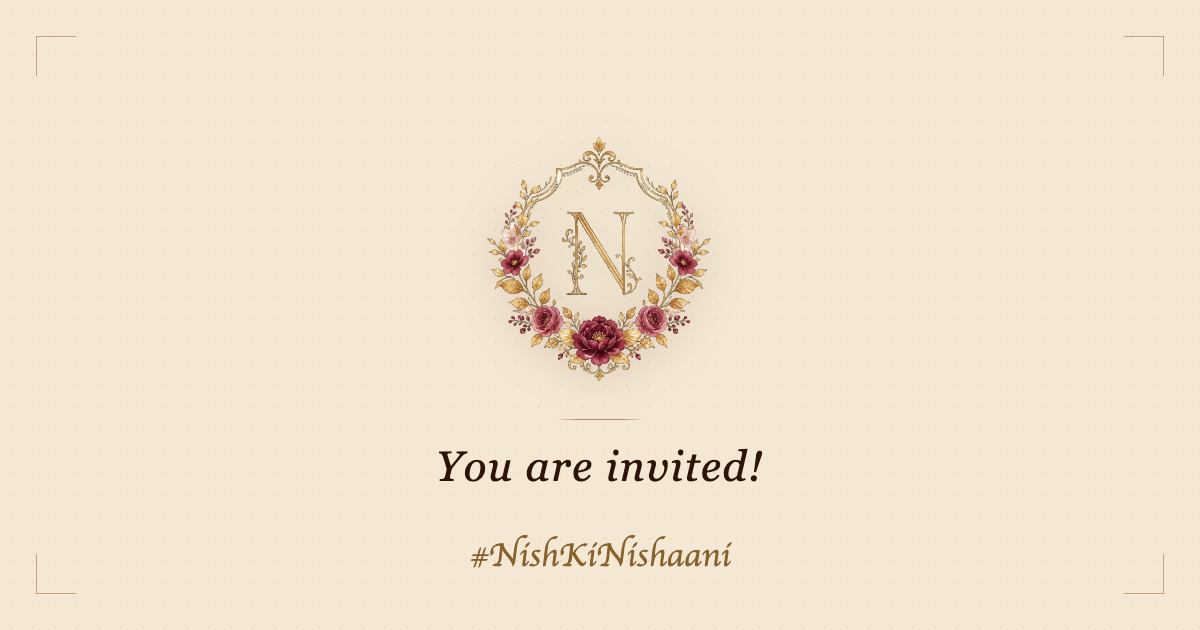
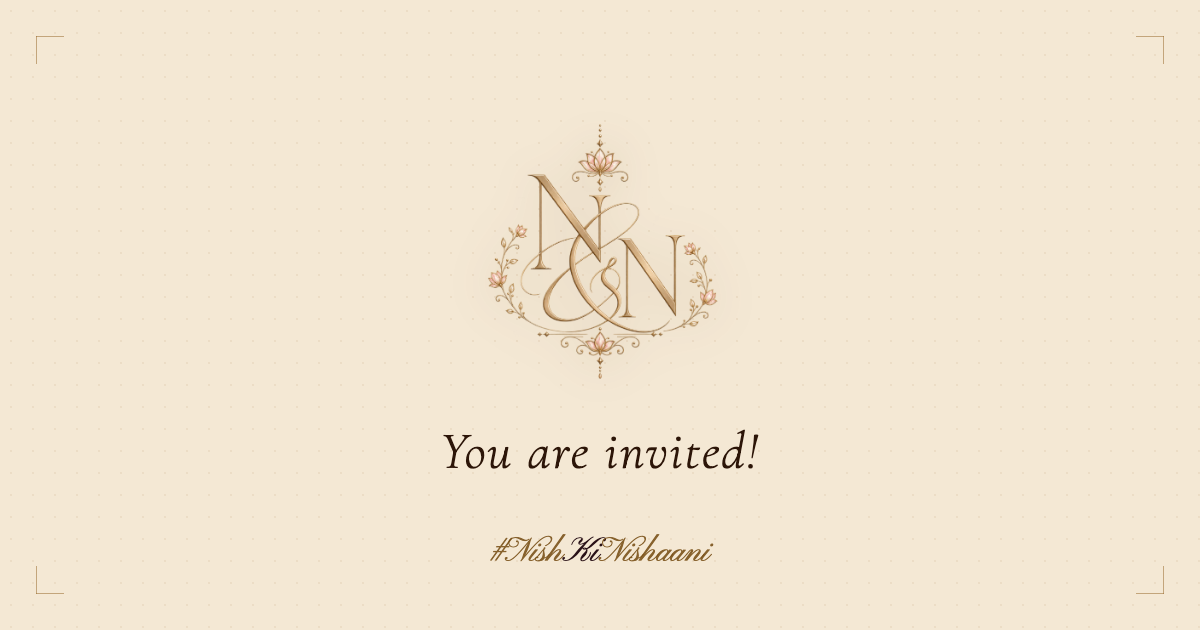
Improvements

Changed region(s): [[0.4008, 0.2111, 0.6167, 0.6032], [0.37, 0.6937, 0.6475, 0.7841], [0.37, 0.8444, 0.6167, 0.9048]]

diff --git a/script.js b/script.js
@@ -210,13 +210,18 @@ document.addEventListener('gestureend', e => e.preventDefault(), { passive: fals
 
       const id = ctx.getImageData(0, 0, W, H);
       const px = id.data;
-      const LOW = 55;
-      const HIGH = 110;
+      const LOW = 42;
+      const HIGH = 88;
 
       for (let i = 0; i < px.length; i += 4) {
-        const lum = px[i] * 0.299 + px[i + 1] * 0.587 + px[i + 2] * 0.114;
-        if (lum <= LOW) px[i + 3] = 0;
-        else if (lum < HIGH) px[i + 3] = Math.round((lum - LOW) / (HIGH - LOW) * 255);
+        const r = px[i], g = px[i + 1], b = px[i + 2];
+        const chroma = Math.max(r, g, b) - Math.min(r, g, b);
+        const lum = r * 0.299 + g * 0.587 + b * 0.114;
+        /* Only strip near-black / grey — keep dark gold & pink */
+        if (lum <= LOW && chroma <= 22) px[i + 3] = 0;
+        else if (lum < HIGH && chroma <= 26) {
+          px[i + 3] = Math.round((lum - LOW) / (HIGH - LOW) * 255);
+        }
       }
 
       ctx.putImageData(id, 0, 0);

diff --git a/styles.css b/styles.css
@@ -232,7 +232,7 @@ button { cursor: pointer; border: none; background: none; font: inherit; padding
   white-space: nowrap;
 }
 .ci-tag__ki {
-  color: #a84858;
+  color: #8a3a4c;
 }
 
 /* Swipe hint removed */
